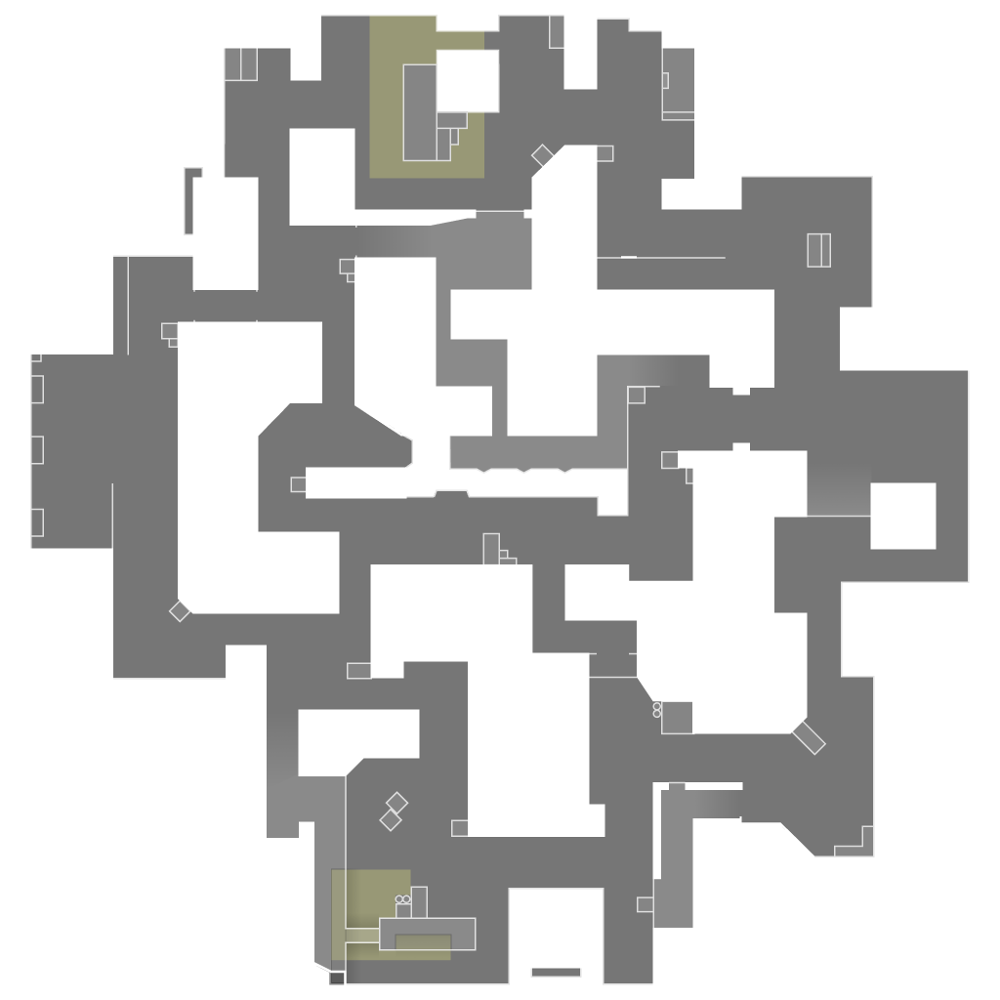
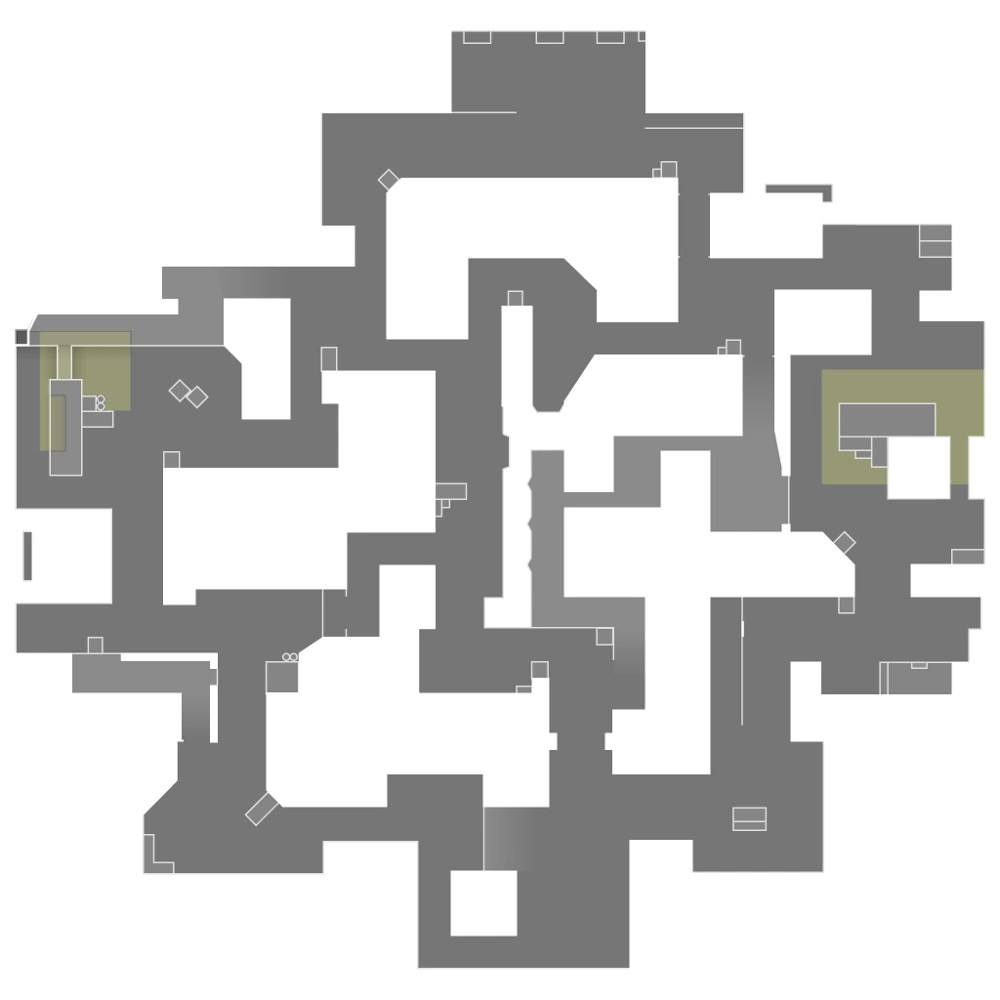
flip and correct orientation

diff --git a/strategy.js b/strategy.js
@@ -182,7 +182,7 @@ document.addEventListener("spikecoach-auth", function(event) {
       transitionEndsAt: 0
     };
     var ZOOM_LEVELS = [1, 1.25, 1.5, 1.75, 2, 2.25, 2.5];
-    var mapView = { scale: 1, panX: 0, panY: 0 };
+    var mapView = { scale: 1, panX: 0, panY: 0, flipped: false };
     var panDrag = null;
     var deleteReturnFocus = null;
 
@@ -419,6 +419,7 @@ document.addEventListener("spikecoach-auth", function(event) {
       if (!rect.width || !rect.height) return { x: 50, y: 50 };
       var x = ((clientX - rect.left) / rect.width) * 100;
       var y = ((clientY - rect.top) / rect.height) * 100;
+      if (mapView.flipped) x = 100 - x;
       return { x: clampMapPct(x), y: clampMapPct(y) };
     }
 
@@ -1238,10 +1239,18 @@ document.addEventListener("spikecoach-auth", function(event) {
         canvas.width = mapImg.naturalWidth;
         canvas.height = mapImg.naturalHeight;
         var ctx = canvas.getContext('2d');
+        if (mapView.flipped) {
+          ctx.translate(canvas.width, 0);
+          ctx.scale(-1, 1);
+        }
         ctx.drawImage(mapImg, 0, 0, canvas.width, canvas.height);
+        ctx.setTransform(1, 0, 0, 1, 0, 0);
 
         function point(pct) {
-          return { x: (pct.x / 100) * canvas.width, y: (pct.y / 100) * canvas.height };
+          var x = (pct.x / 100) * canvas.width;
+          var y = (pct.y / 100) * canvas.height;
+          if (mapView.flipped) x = canvas.width - x;
+          return { x: x, y: y };
         }
 
         state.arrows.forEach(function(arrow) {
@@ -2322,6 +2331,11 @@ document.addEventListener("spikecoach-auth", function(event) {
         dom.mapContent.style.transform =
           'translate(' + (mapView.panX * 100) + '%, ' + (mapView.panY * 100) + '%) scale(' + mapView.scale + ')';
       }
+      if (dom.mapFlip) dom.mapFlip.classList.toggle('is-flipped', !!mapView.flipped);
+      if (dom.flipBtn) {
+        dom.flipBtn.classList.toggle('is-active', !!mapView.flipped);
+        dom.flipBtn.setAttribute('aria-pressed', mapView.flipped ? 'true' : 'false');
+      }
       if (dom.minimapContainer) dom.minimapContainer.classList.toggle('is-zoomed', mapView.scale > 1);
       if (dom.zoomLevel) {
         var pct = Math.round(mapView.scale * 100);
@@ -2379,6 +2393,12 @@ document.addEventListener("spikecoach-auth", function(event) {
       mapView.scale = 1;
       mapView.panX = 0;
       mapView.panY = 0;
+      mapView.flipped = false;
+      applyMapView();
+    }
+
+    function toggleMapFlip() {
+      mapView.flipped = !mapView.flipped;
       applyMapView();
     }
 
@@ -2487,6 +2507,8 @@ document.addEventListener("spikecoach-auth", function(event) {
 
     function bindMapView() {
       dom.mapContent = document.getElementById('strategyMapContent');
+      dom.mapFlip = document.getElementById('strategyMapFlip');
+      dom.flipBtn = document.getElementById('strategyFlipBtn');
       dom.zoomOut = document.getElementById('strategyZoomOut');
       dom.zoomIn = document.getElementById('strategyZoomIn');
       dom.zoomLevel = document.getElementById('strategyZoomLevel');
@@ -2499,6 +2521,7 @@ document.addEventListener("spikecoach-auth", function(event) {
       if (dom.zoomOut) dom.zoomOut.addEventListener('click', function() { stepZoom(-1); });
       if (dom.zoomIn) dom.zoomIn.addEventListener('click', function() { stepZoom(1); });
       if (dom.zoomLevel) dom.zoomLevel.addEventListener('click', resetMapView);
+      if (dom.flipBtn) dom.flipBtn.addEventListener('click', toggleMapFlip);
       if (dom.resetViewBtn) dom.resetViewBtn.addEventListener('click', resetMapView);
       if (dom.deleteEverythingBtn) dom.deleteEverythingBtn.addEventListener('click', openDeleteDialog);
       if (dom.deleteCancel) dom.deleteCancel.addEventListener('click', closeDeleteDialog);

diff --git a/strategy.html b/strategy.html
@@ -133,17 +133,22 @@
                       <button type="button" class="strategy-zoom-level" id="strategyZoomLevel" aria-label="Reset zoom to 100 percent">100%</button>
                       <button type="button" class="strategy-zoom-btn" id="strategyZoomIn" aria-label="Zoom in">+</button>
                     </div>
+                    <button type="button" class="strategy-flip-btn" id="strategyFlipBtn" aria-pressed="false" title="Flip map" aria-label="Flip map">
+                      <img src="Other_images/flipicon.png" alt="" draggable="false">
+                    </button>
                     <button type="button" class="strategy-tool-btn" id="strategyResetView">Reset View</button>
                     <button type="button" class="strategy-danger-btn" id="strategyDeleteEverything">Delete Everything</button>
                   </div>
                   <div class="strategy-map-frame">
                     <div class="minimap-container strategy-minimap" id="strategyExportRoot">
                       <div class="strategy-map-content" id="strategyMapContent">
-                        <img src="" alt="" class="minimap-image" id="minimapImage" draggable="false">
-                        <div class="strategy-map-layer" id="strategyMapLayer" aria-hidden="true">
-                          <svg class="strategy-arrow-svg" id="strategyArrowSvg" viewBox="0 0 100 100" preserveAspectRatio="none"></svg>
-                          <div class="strategy-entities-layer" id="strategyEntitiesLayer"></div>
-                          <div class="strategy-playback-layer" id="strategyPlaybackLayer" hidden></div>
+                        <div class="strategy-map-flip" id="strategyMapFlip">
+                          <img src="" alt="" class="minimap-image" id="minimapImage" draggable="false">
+                          <div class="strategy-map-layer" id="strategyMapLayer" aria-hidden="true">
+                            <svg class="strategy-arrow-svg" id="strategyArrowSvg" viewBox="0 0 100 100" preserveAspectRatio="none"></svg>
+                            <div class="strategy-entities-layer" id="strategyEntitiesLayer"></div>
+                            <div class="strategy-playback-layer" id="strategyPlaybackLayer" hidden></div>
+                          </div>
                         </div>
                       </div>
                     </div>

diff --git a/style.css b/style.css
@@ -2418,6 +2418,31 @@ a.btn-primary:hover {
   cursor: not-allowed;
 }
 
+.strategy-flip-btn {
+  width: 2.05rem;
+  height: 2.05rem;
+  padding: 0;
+  border-radius: 999px;
+  border: 1px solid var(--border-strong);
+  background: rgba(255, 255, 255, 0.03);
+  color: var(--text-primary);
+  display: inline-flex;
+  align-items: center;
+  justify-content: center;
+  cursor: pointer;
+}
+
+.strategy-flip-btn img {
+  width: 1.05rem;
+  height: 1.05rem;
+  filter: invert(1);
+}
+
+.strategy-flip-btn.is-active {
+  border-color: var(--accent-soft);
+  background: var(--accent-wash);
+}
+
 .strategy-view-bar .strategy-danger-btn {
   margin-left: auto;
 }
@@ -2525,6 +2550,25 @@ a.btn-primary:hover {
   position: relative;
   width: 100%;
   transform-origin: 0 0;
+}
+
+.strategy-map-flip {
+  position: relative;
+  width: 100%;
+  transform-origin: center center;
+}
+
+.strategy-map-flip.is-flipped {
+  transform: scaleX(-1);
+}
+
+.strategy-map-flip.is-flipped .agent-marker img,
+.strategy-map-flip.is-flipped .strategy-ability-map-marker img,
+.strategy-map-flip.is-flipped .strategy-spike-map-marker img,
+.strategy-map-flip.is-flipped .strategy-play-agent img,
+.strategy-map-flip.is-flipped .strategy-play-ability img,
+.strategy-map-flip.is-flipped .strategy-play-spike img {
+  transform: scaleX(-1);
 }
 
 .minimap-image {
